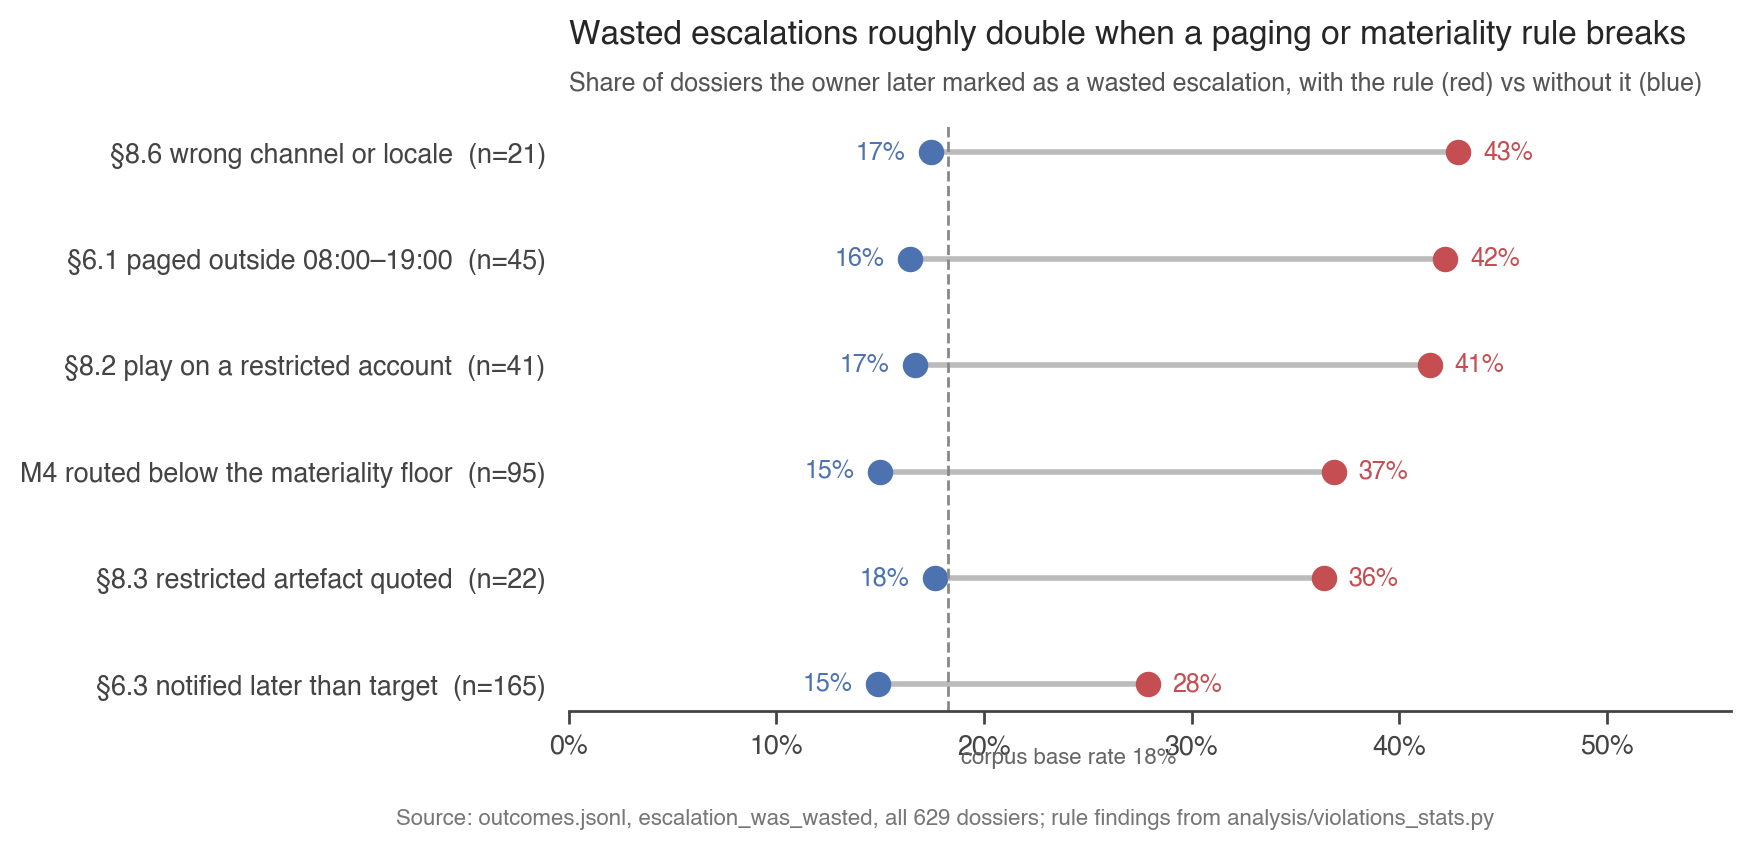
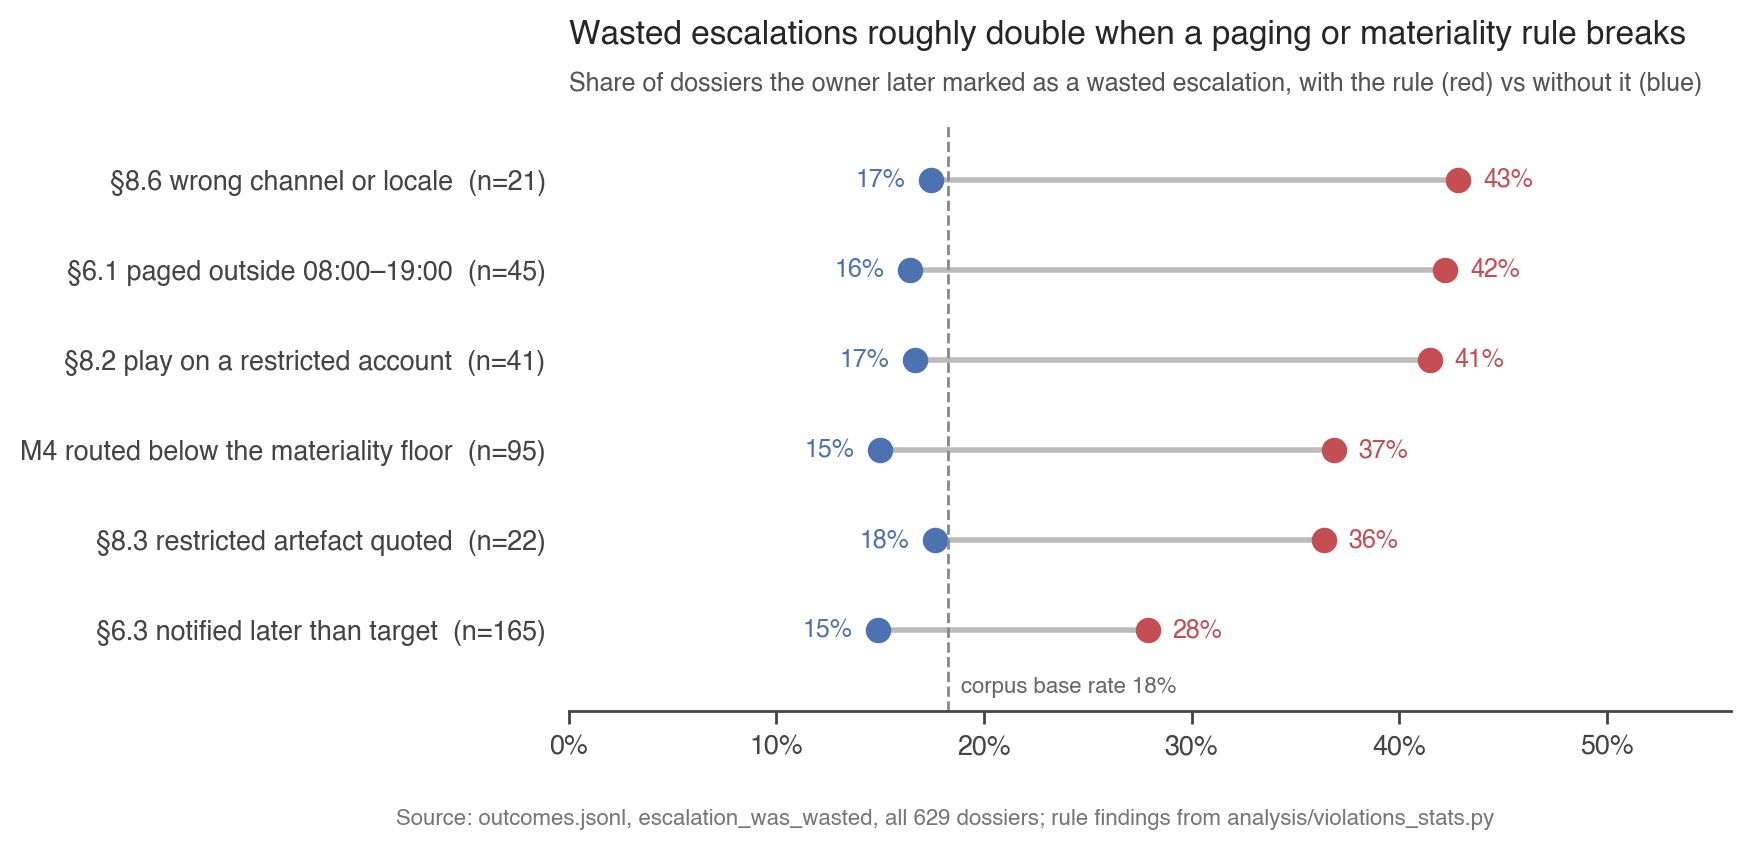
docs(figures): label placement

diff --git a/analysis/figures.py b/analysis/figures.py
@@ -84,7 +84,8 @@ def fig_wasted(rows):
     ax.scatter([p[3] for p in pts], list(ys), s=70, color=BLUE, zorder=2)
     ax.scatter([p[2] for p in pts], list(ys), s=70, color=RED, zorder=2)
     ax.axvline(base, ls="--", lw=1, color="#888888")
-    ax.text(base + 0.006, -0.75, f"corpus base rate {base:.0%}", fontsize=8, color="#666666")
+    ax.set_ylim(-0.9, len(pts) - 0.4)
+    ax.text(base + 0.006, -0.7, f"corpus base rate {base:.0%}", fontsize=8, color="#666666")
     for y, (name, n, w, wo) in zip(ys, pts):
         ax.text(w + 0.012, y, f"{w:.0%}", va="center", fontsize=9, color=RED)
         ax.text(wo - 0.012, y, f"{wo:.0%}", va="center", ha="right", fontsize=9, color=BLUE)
@@ -122,7 +123,7 @@ def fig_weeks():
         ax.scatter(w, wk[w], s=60, color=col[kind], zorder=3)
         dx, dy = (0, 22) if kind == "artefact" else (0, 14)
         if w == 22:
-            dx, dy = (34, 18)
+            dx, dy = (-4, -30)
         ax.annotate(note, (w, wk[w]), xytext=(dx, dy), textcoords="offset points", ha="center", fontsize=8,
                     color=col[kind], arrowprops=dict(arrowstyle="-", color="#AAAAAA", lw=0.8))
     ax.set_xticks(weeks)
